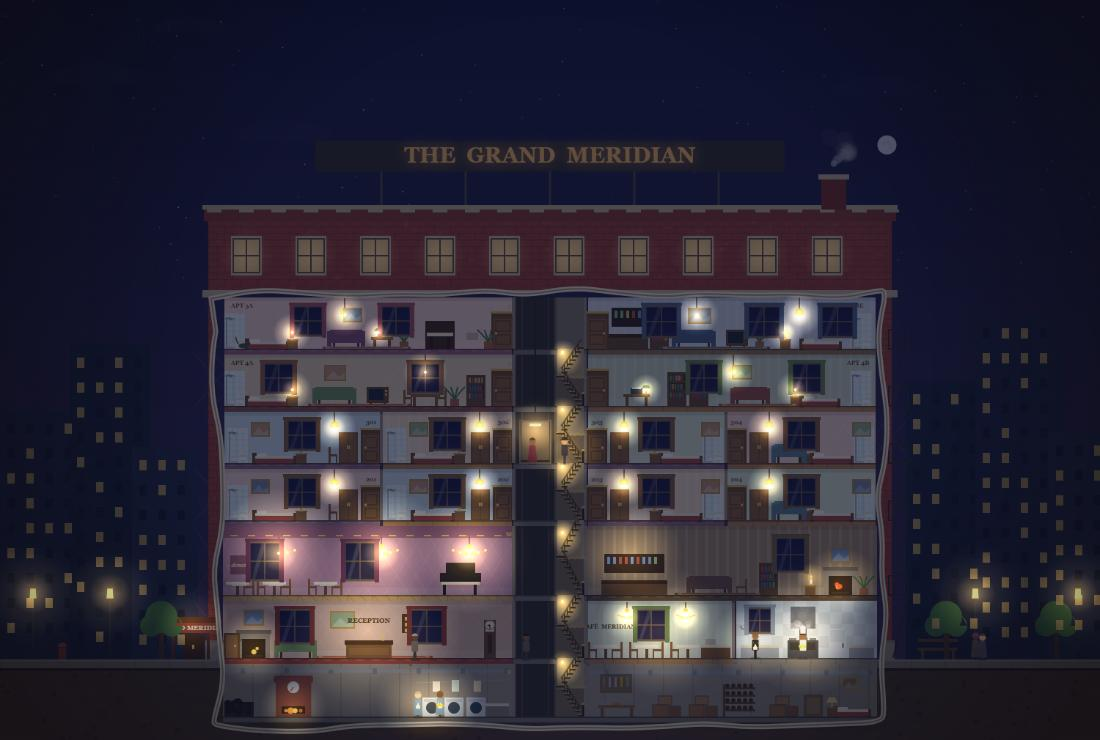
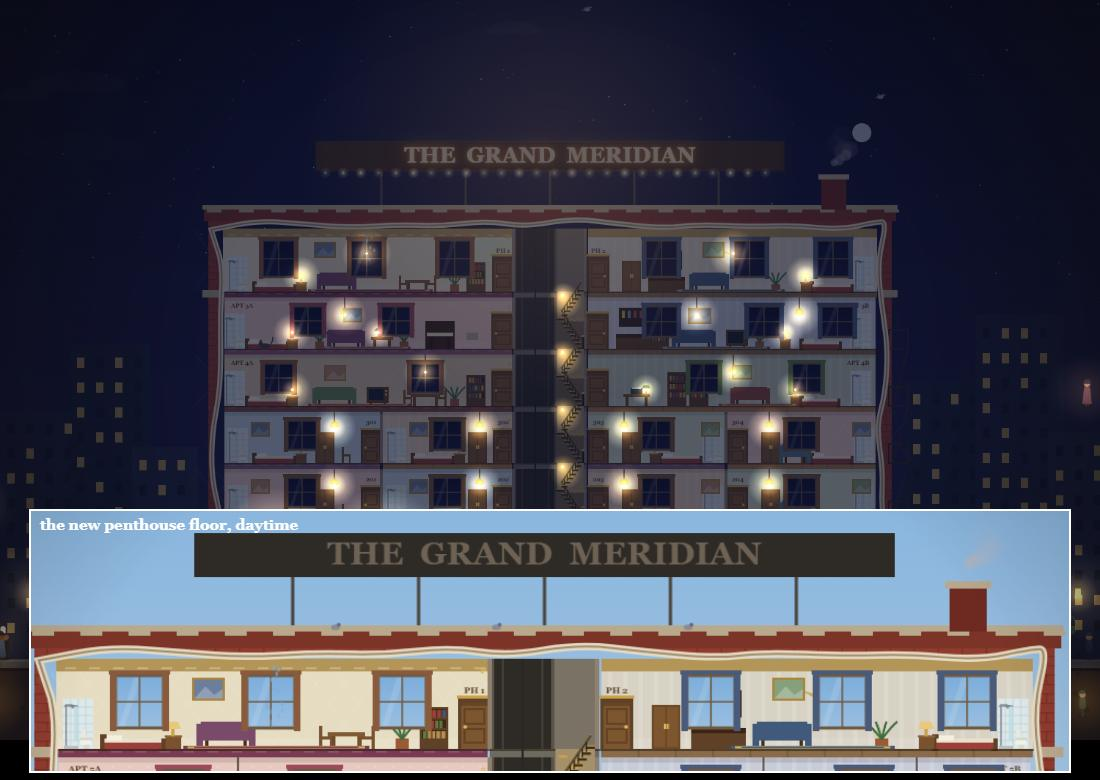
Penthouse floor with two grand suites + glowing marquee bulbs
- The attic window band is now a full 7th floor: suites PH1 and PH2
  at $395/night, with gilt friezes, chandeliers, tall windows, a bar,
  and en-suite bathrooms - bookable by guests, served by lift & stairs
- The old floor-6 'Penthouse' apartment is now Apt 5B (Dr. Cross)
- Each marquee bulb around the sign now has its own glowing halo

diff --git a/index.html b/index.html
@@ -176,7 +176,9 @@ const FLOORS=[
   {name:'3rd Floor',   top:562, y:632},
   {name:'4th Floor',   top:484, y:554},
   {name:'5th Floor',   top:406, y:476},
+  {name:'Penthouse',   top:312, y:398},
 ];
+const TOPFL=7;
 const cv=document.getElementById('stage'), ctx=cv.getContext('2d');
 let scale=1, offX=0, offY=0;
 function resize(){ cv.width=innerWidth*devicePixelRatio; cv.height=innerHeight*devicePixelRatio;
@@ -296,7 +298,7 @@ function drawWeather(rain,snow,dk){
   if(weather.intensity>0.12){ctx.fillStyle='rgba(80,88,100,'+(0.20*weather.intensity)+')';ctx.fillRect(0,0,W,H);}
   if(rain<=0&&snow<=0)return;
   ctx.save();                                    // keep the rooms dry: clip out the interior
-  ctx.beginPath();ctx.rect(0,0,W,H);ctx.rect(IL,FLOORS[6].top,IR-IL,FLOORS[0].y+8-FLOORS[6].top);
+  ctx.beginPath();ctx.rect(0,0,W,H);ctx.rect(IL,FLOORS[TOPFL].top,IR-IL,FLOORS[0].y+8-FLOORS[TOPFL].top);
   ctx.clip('evenodd');
   if(rain>0){const n=Math.min(RAIN.length,Math.floor(RAIN.length*rain));
     for(let i=0;i<n;i++){const d=RAIN[i];
@@ -348,9 +350,10 @@ const money={balance:12400, todayRev:0, todayCost:0};
 const PRICES=[
  ['Standard room (per night)','$189'],
  ['Corner suite (per night)','$259'],
+ ['Penthouse suite (per night)','$395'],
  ['Apt 4A / 4B rent (weekly)','$395'],
  ['Apt 5A rent (weekly)','$520'],
- ['Penthouse rent (weekly)','$740'],
+ ['Apt 5B rent (weekly)','$740'],
  ['Breakfast','$18'],['Businessman\'s luncheon','$24'],['Table d\'hôte dinner','$42'],['Pot of tea / coffee','$9'],
  ['Staff wages (daily total)','$1,360'],['Light, coal & water (per hour)','$10'],
 ];
@@ -375,14 +378,15 @@ const ROOMS=[
  {id:'203',fl:3,x1:802,x2:988,suite:false},{id:'204',fl:3,x1:992,x2:1194,suite:true},
  {id:'301',fl:4,x1:306,x2:518,suite:false},{id:'302',fl:4,x1:522,x2:698,suite:false},
  {id:'303',fl:4,x1:802,x2:988,suite:false},{id:'304',fl:4,x1:992,x2:1194,suite:true},
+ {id:'PH1',fl:7,x1:306,x2:698,suite:true,ph:true},{id:'PH2',fl:7,x1:802,x2:1194,suite:true,ph:true},
 ];
 ROOMS.forEach(r=>{r.bedX = r.x1<CORE_L ? r.x1+62 : r.x2-66; r.deskX=r.x1<CORE_L? r.x2-52 : r.x1+84;
-  r.guest=null; r.dirty=false; r.rate=r.suite?259:189;});
+  r.guest=null; r.dirty=false; r.rate=r.ph?395:r.suite?259:189;});
 const APTS=[
  {id:'4A',fl:5,x1:306,x2:698,rent:395,bedX:358,deskX:640},
  {id:'4B',fl:5,x1:802,x2:1194,rent:395,bedX:1118,deskX:860},
  {id:'5A',fl:6,x1:306,x2:698,rent:520,bedX:358,deskX:600},
- {id:'PH',fl:6,x1:802,x2:1194,rent:740,bedX:1118,deskX:880},
+ {id:'5B',fl:6,x1:802,x2:1194,rent:740,bedX:1118,deskX:880},
 ];
 const cleaningQueue=[];
 
@@ -632,24 +636,48 @@ function buildStatic(){
    bed(APTS[3].bedX-24,y,50); sofa(920,y,52,'#41597a'); tvSet(990,y); barCounter(840,y,54);
    pendantLamp(950,t,14); pendantLamp(1090,t,14); sideTable(1064,y); tblLamp(1064,y,true);
    bookshelf(886,y,44); plant(1030,y); painting(940,t+16,28,18,'#6b7f9c'); rug(900,y,150,'#41597a');
-   g.fillStyle='#5a4326';g.fillText('PENTHOUSE',1150,t+14);
+   g.fillStyle='#5a4326';g.fillText('APT 5B',1170,t+14);
+  }
+  // --- Penthouse floor: two grand suites under the parapet ---
+  {const t=F[7].top,y=F[7].y;
+   // PH1
+   wallpaper(IL,t,698,y,'#e6dcc2','diamond'); carpet(IL,698,y,'#7a3b52');
+   fr(g,IL,t,698-IL,12,'#b39558'); g.fillStyle='rgba(255,255,255,.25)'; for(let x=IL+8;x<690;x+=22)g.fillRect(x,t+8,10,2); // gilt frieze
+   windowFrameReg(358,t+16,44,50,'#8a5a3c'); windowFrameReg(478,t+16,44,50,'#8a5a3c'); windowFrameReg(598,t+16,44,50,'#8a5a3c');
+   bathNook(310,y); aptDoorway(686,7,24,44);
+   bed(348,y); sideTable(404,y); tblLamp(404,y,true);
+   chandelier(500,t+14,false);
+   sofa(436,y,46,'#7a4a6b'); table(552,y,34); chair(544,y,1); chair(592,y,-1);
+   bookshelf(636,y,40); plant(614,y); painting(430,t+20,26,18,'#6b7f9c'); rug(420,y,170,'#7a3b52');
+   g.fillStyle='#5a4326';g.font='bold 8px Georgia';g.fillText('PH 1',686,y-53);
+   // PH2
+   wallpaper(802,t,IR,y,'#d8d2c4','stripe'); floorBoards(802,IR,y,'#8a6a48');
+   fr(g,802,t,IR-802,12,'#b39558'); for(let x=810;x<IR-8;x+=22)g.fillRect(x,t+8,10,2);
+   windowFrameReg(880,t+16,44,50,'#4a5a7a'); windowFrameReg(1000,t+16,44,50,'#4a5a7a'); windowFrameReg(1114,t+16,44,50,'#4a5a7a');
+   aptDoorway(816,7,24,44); wardrobe(848,y);
+   chandelier(1000,t+14,false);
+   barCounter(884,y,50); sofa(944,y,46,'#41597a');
+   bed(1108,y); sideTable(1092,y); tblLamp(1092,y,true);
+   bathNook(1164,y);
+   plant(1052,y); painting(960,t+20,26,18,'#87a07c'); rug(920,y,150,'#41597a');
+   g.fillStyle='#5a4326';g.fillText('PH 2',816,y-53);
   }
   // --- core: lift shaft & stairs, every floor ---
-  for(let fi=0;fi<7;fi++){const t=FLOORS[fi].top,y=FLOORS[fi].y;
+  for(let fi=0;fi<8;fi++){const t=FLOORS[fi].top,y=FLOORS[fi].y;
     fr(g,CORE_L,t,CORE_R-CORE_L,y-t,'#7a7264');
     fr(g,LIFT_L,t,LIFT_R-LIFT_L,y-t,'#2e2a26');                       // shaft
     g.strokeStyle='#4a443c';g.lineWidth=1.5; g.beginPath();g.moveTo(LIFT_L+8,t);g.lineTo(LIFT_L+8,y);g.moveTo(LIFT_R-8,t);g.lineTo(LIFT_R-8,y);g.stroke();
     fr(g,LIFT_L-3,t,3,y-t,'#5a5348'); fr(g,LIFT_R,t,3,y-t,'#5a5348');
-    g.fillStyle='#d8b45a'; g.font='bold 8px Georgia'; g.fillText(['B','G','M','2','3','4','5'][fi],LIFT_L-10,t+14);
+    g.fillStyle='#d8b45a'; g.font='bold 8px Georgia'; g.fillText(['B','G','M','2','3','4','5','P'][fi],LIFT_L-10,t+14);
     fr(g,CORE_R-4,t,4,y-t,'#8f8070'); fr(g,CORE_L-2,t,4,y-t,'#8f8070');
   }
   // core landing strips + thin slab shadow lines between floors
-  for(let fi=0;fi<7;fi++){const y=FLOORS[fi].y;
+  for(let fi=0;fi<8;fi++){const y=FLOORS[fi].y;
     fr(g,CORE_L,y,CORE_R-CORE_L,8,'#6e6a60');
     fr(g,BL,y,BR-BL,2,'rgba(40,28,14,.55)');}
   fr(g,BL,FLOORS[0].y+8,BR-BL,10,'#3f3122'); // foundation under basement
   // ---- art deco switchback staircase (drawn over the core) ----
-  for(let fi=0;fi<6;fi++){
+  for(let fi=0;fi<7;fi++){
     const yb=FLOORS[fi].y, yt=FLOORS[fi+1].y, ym=(yb+yt)/2;
     // two-tone deco stairwell wall with a gold chevron trim at the dado line
     fr(g,760,yt,36,(yb-yt)*0.52,'#a4906a'); fr(g,760,yt+(yb-yt)*0.52,36,(yb-yt)*0.48,'#6e5f46');
@@ -689,7 +717,7 @@ let holePath=null;
 function makeHolePath(){const p=new Path2D(); const pts=[];
   // wobbly ring just outside the interior; seeded wobble so it's stable
   let s=7; const wob=k=>{s=(s*16807)%2147483647; return ((s/2147483647)-0.5)*2*k;};
-  const topY=FLOORS[6].top-6, botY=FLOORS[0].y+14;
+  const topY=FLOORS[TOPFL].top-6, botY=FLOORS[0].y+14;
   for(let x=IL-6;x<=IR+6;x+=60)pts.push([x+wob(10),topY+wob(9)]);
   for(let y=topY;y<=botY;y+=56)pts.push([IR+7+wob(9),y+wob(10)]);
   for(let x=IR+6;x>=IL-6;x-=60)pts.push([x+wob(10),botY+wob(9)]);
@@ -718,9 +746,7 @@ function buildShell(){
   c.fillStyle='#7d3428'; c.fillRect(BL-12,TOPB-16,BR-BL+24,18);
   c.fillStyle='#b8a88c'; c.fillRect(BL-14,TOPB-20,BR-BL+28,6);
   for(let x=BL-8;x<BR+8;x+=44)c.fillRect(x,TOPB-14,20,4);
-  // attic windows on the top band
-  for(let x=BL+28;x<BR-40;x+=88){c.fillStyle='#b8a88c';c.fillRect(x-3,TOPB+22,42,54);
-    regExtWin(x,TOPB+26,36,46); }
+  // (the old attic window band is now the penthouse floor)
   // chimney
   c.fillStyle='#6e2a20'; c.fillRect(BR-90,TOPB-58,34,44); c.fillStyle='#b8a88c'; c.fillRect(BR-94,TOPB-62,42,7);
   // fire escape on right edge
@@ -869,9 +895,9 @@ function updatePerson(p,dt,wm){
       const t=clamp(st.prog,0,1);
       // continuous floor position; walk the switchback within each storey
       const f=lerp(st.from,st.to,t);
-      let i=Math.floor(f); if(i>5)i=5; if(i<0)i=0;
+      let i=Math.floor(f); if(i>TOPFL-1)i=TOPFL-1; if(i<0)i=0;
       const frac=clamp(f-i,0,1);
-      const yLo=FLOORS[i].y, yHi=FLOORS[Math.min(i+1,6)].y, ym=(yLo+yHi)/2;
+      const yLo=FLOORS[i].y, yHi=FLOORS[Math.min(i+1,TOPFL)].y, ym=(yLo+yHi)/2;
       let nx,ny;
       if(frac<0.5){nx=lerp(STAIR_R,STAIR_L,frac*2); ny=lerp(yLo,ym,frac*2);}   // lower flight
       else        {nx=lerp(STAIR_L,STAIR_R,(frac-0.5)*2); ny=lerp(ym,yHi,(frac-0.5)*2);} // upper flight
@@ -961,7 +987,7 @@ const TENANTS=[
  makePerson({name:'Edna Babbage',role:'Tenant · Apt 4A',kind:'tenant',shirt:'#8e5a70',dress:true,hat:'cloche',hatCol:'#5a3a4a',hair:'#d8cdb4',meta:{job:'babbage',apt:APTS[0],off:14}}),
  makePerson({name:'Theo Marsh',role:'Tenant · Apt 4B · novelist',kind:'tenant',shirt:'#4a5a4a',pants:'#3a3a30',hair:'#2a1c10',meta:{job:'theo',apt:APTS[1]}}),
  makePerson({name:'Miss Agnes Thornbury',role:'Tenant · Apt 5A · piano teacher (ret.)',kind:'tenant',shirt:'#7a4a6b',dress:true,hair:'#d8cdb4',meta:{job:'agnes',apt:APTS[2]}}),
- makePerson({name:'Dr. Vivian Cross',role:'Tenant · Penthouse · surgeon',kind:'tenant',shirt:'#41597a',dress:true,hair:'#1c1c1c',meta:{job:'vivian',apt:APTS[3]}}),
+ makePerson({name:'Dr. Vivian Cross',role:'Tenant · Apt 5B · surgeon',kind:'tenant',shirt:'#41597a',dress:true,hair:'#1c1c1c',meta:{job:'vivian',apt:APTS[3]}}),
 ];
 TENANTS.forEach(p=>{p.floor=p.meta.apt.fl; p.x=p.meta.apt.bedX; p.state='idle'; p.act='home';});
 STAFF.forEach(p=>{p.floor=null;p.state='out';});
@@ -1093,7 +1119,7 @@ function bookRoom(r){
     const fem=couple? i===1 : Math.random()<0.5;
     const title=couple?(i?'Mrs ':'Mr '):(fem?pick(['Miss ','Mrs ']):'Mr ');
     const p=makePerson({name:title+(couple?ln:pick(fem?FIRST_F:FIRST_M)+' '+ln),
-      kind:'guest',role:'Guest · Room '+r.id,dress:fem,shirt:pick(['#6a5a3a','#41597a','#5f7a44','#8e5a70','#7a4a3c','#4a5a7a']),
+      kind:'guest',role:'Guest · '+(r.suite?'Suite ':'Room ')+r.id,dress:fem,shirt:pick(['#6a5a3a','#41597a','#5f7a44','#8e5a70','#7a4a3c','#4a5a7a']),
       pants:'#3a3a30',hat:fem?(Math.random()<.6?'cloche':null):(Math.random()<.5?'bowler':null),hatCol:pick(['#5a3a4a','#3a4a5c']),
       meta:{job:'guest',room:r,nights,checkoutDay:dayNow()+nights,off:i*12,
         brekH:rnd(7.6,9.4),outH:rnd(10,12),retH:rnd(16.5,19),dineBall:Math.random()<0.55,sleepH:rnd(21.5,23.4),paid:{}}});
@@ -1258,7 +1284,7 @@ function liftBusy(){return people.some(p=>p.queue[0]&&p.queue[0].t==='lift'&&p.q
 function updateLift(dt){
   if(fx.liftBroken){
     if(lift.state!=='broken'){ // stall at the nearest floor and let everyone out
-      let bi=1,bd=1e9; for(let i=0;i<7;i++){const d=Math.abs(FLOORS[i].y-lift.y); if(d<bd){bd=d;bi=i;}}
+      let bi=1,bd=1e9; for(let i=0;i<8;i++){const d=Math.abs(FLOORS[i].y-lift.y); if(d<bd){bd=d;bi=i;}}
       lift.fl=bi; lift.y=FLOORS[bi].y; lift.state='broken';}
     lift.door=Math.min(1,lift.door+dt*2.2);
     return;
@@ -1368,7 +1394,7 @@ function render(time){
     ctx.fillRect(wn.x-6,wn.y-5,wn.w+12,4);}
   // lift cab interior (sliding doors are drawn after the people, so riders show inside)
   {const cabH=58, cl=LIFT_L+5, cw=LIFT_R-LIFT_L-10;
-   ctx.strokeStyle='#2a2622';ctx.lineWidth=2;ctx.beginPath();ctx.moveTo(730,lift.y-cabH);ctx.lineTo(730,FLOORS[6].top);ctx.stroke();
+   ctx.strokeStyle='#2a2622';ctx.lineWidth=2;ctx.beginPath();ctx.moveTo(730,lift.y-cabH);ctx.lineTo(730,FLOORS[TOPFL].top);ctx.stroke();
    ctx.fillStyle='#5a4a36'; ctx.fillRect(cl,lift.y-cabH,cw,cabH);
    ctx.fillStyle='#6e5c44'; ctx.fillRect(cl+2,lift.y-cabH+2,cw-4,cabH-4);
    ctx.fillStyle='#3c2c1a'; ctx.fillRect(cl,lift.y-4,cw,4);
@@ -1482,9 +1508,15 @@ function drawAmbient(time,h,dk,day){
     ctx.fillText('THE  GRAND  MERIDIAN',750,222);
     ctx.shadowBlur=6; ctx.fillStyle='rgba(255,240,200,'+(0.85*a)+')';
     ctx.fillText('THE  GRAND  MERIDIAN',750,222);ctx.restore();
-    // marquee bulbs along the bottom edge
-    for(let bx=444;bx<=1058;bx+=24){const tw=0.75+0.25*Math.sin(time*3+bx*0.7);
-      ctx.fillStyle='rgba(255,225,150,'+(a*tw)+')';ctx.beginPath();ctx.arc(bx,236,1.8,0,7);ctx.fill();}}
+    // marquee bulbs along the bottom edge, each with its own little halo
+    ctx.save();ctx.globalCompositeOperation='lighter';
+    for(let bx=444;bx<=1058;bx+=24){const tw=0.72+0.28*Math.sin(time*3+bx*0.7), ba=a*tw;
+      const bg2=ctx.createRadialGradient(bx,236,0.5,bx,236,8);
+      bg2.addColorStop(0,'rgba(255,225,150,'+(0.65*ba)+')');bg2.addColorStop(1,'rgba(255,225,150,0)');
+      ctx.fillStyle=bg2;ctx.beginPath();ctx.arc(bx,236,8,0,7);ctx.fill();}
+    ctx.restore();
+    for(let bx=444;bx<=1058;bx+=24){const tw=0.72+0.28*Math.sin(time*3+bx*0.7);
+      ctx.fillStyle='rgba(255,242,200,'+(a*tw)+')';ctx.beginPath();ctx.arc(bx,236,2,0,7);ctx.fill();}}
   drawSignBirds(dk);
   // street lanterns come on at five o'clock sharp
   const lampsOn=h>=17||h<6.25;
@@ -1589,7 +1621,7 @@ function drawLighting(h,dk,time,day){
   if(h>=17.5&&h<23.4)for(const bx of[380,520,640])light(bx,FLOORS[2].top+34,86); // ballroom chandeliers
   light(860,FLOORS[2].top+40,70);                               // lounge
   light(730,lift.y-40,52);                                      // glowing lift cab
-  for(let fi=0;fi<6;fi++)light(770,(FLOORS[fi].y+FLOORS[fi+1].y)/2-26,24); // dim stairwell landings
+  for(let fi=0;fi<7;fi++)light(770,(FLOORS[fi].y+FLOORS[fi+1].y)/2-26,24); // dim stairwell landings
   if(h>15||h<7)light(1106,FLOORS[2].y-24,20);                   // lounge candle
   if(h>=17||h<6.25)for(const lx of STREETLAMPS)light(lx,STREET-88,72); // street lamps, on at 5pm
   for(const L of DECOR_LAMPS)light(L.x,L.y,L.r);                // miniature fittings